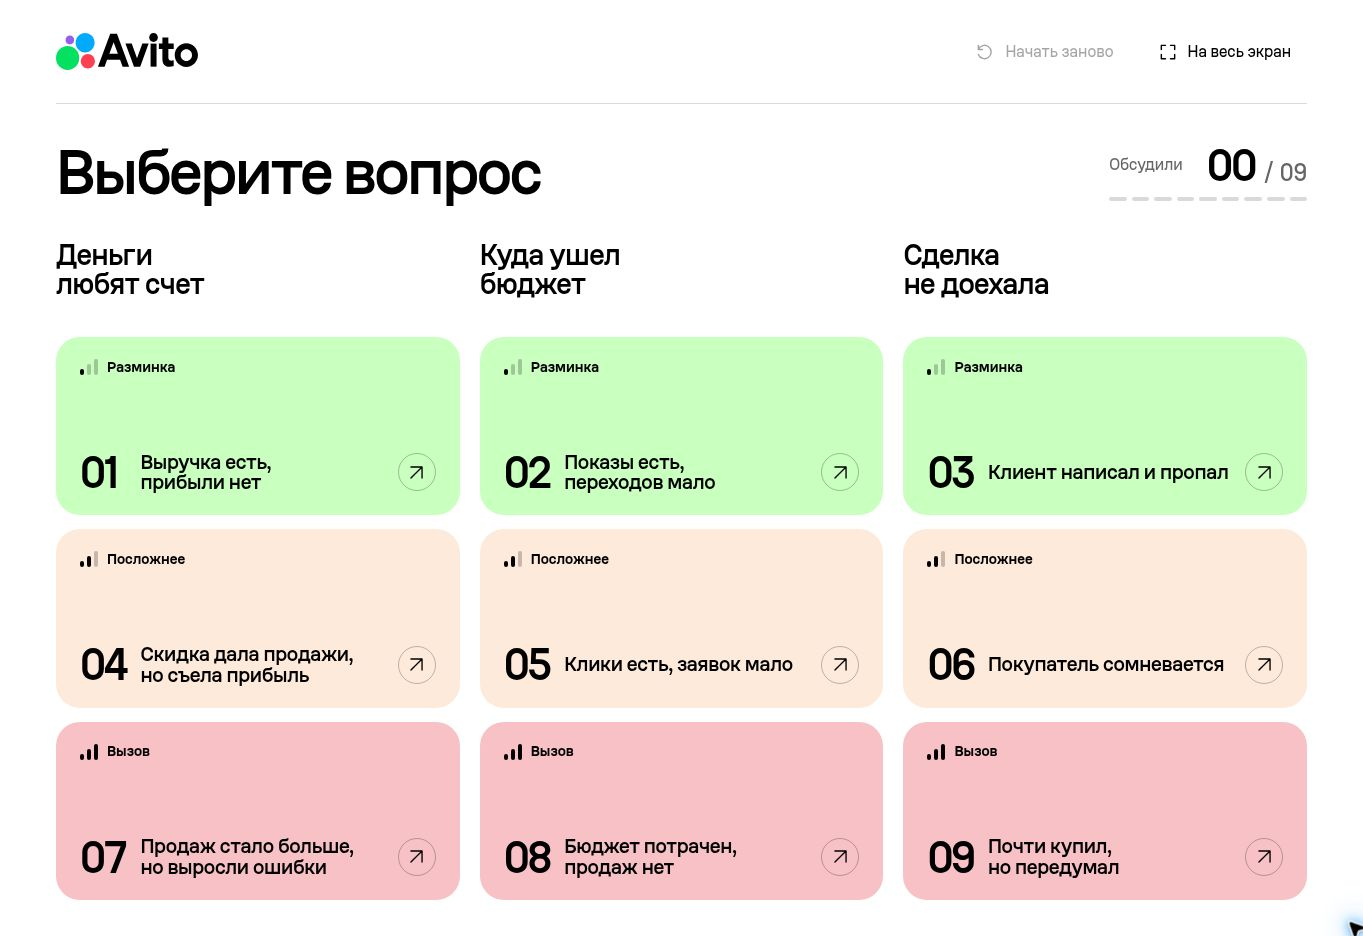
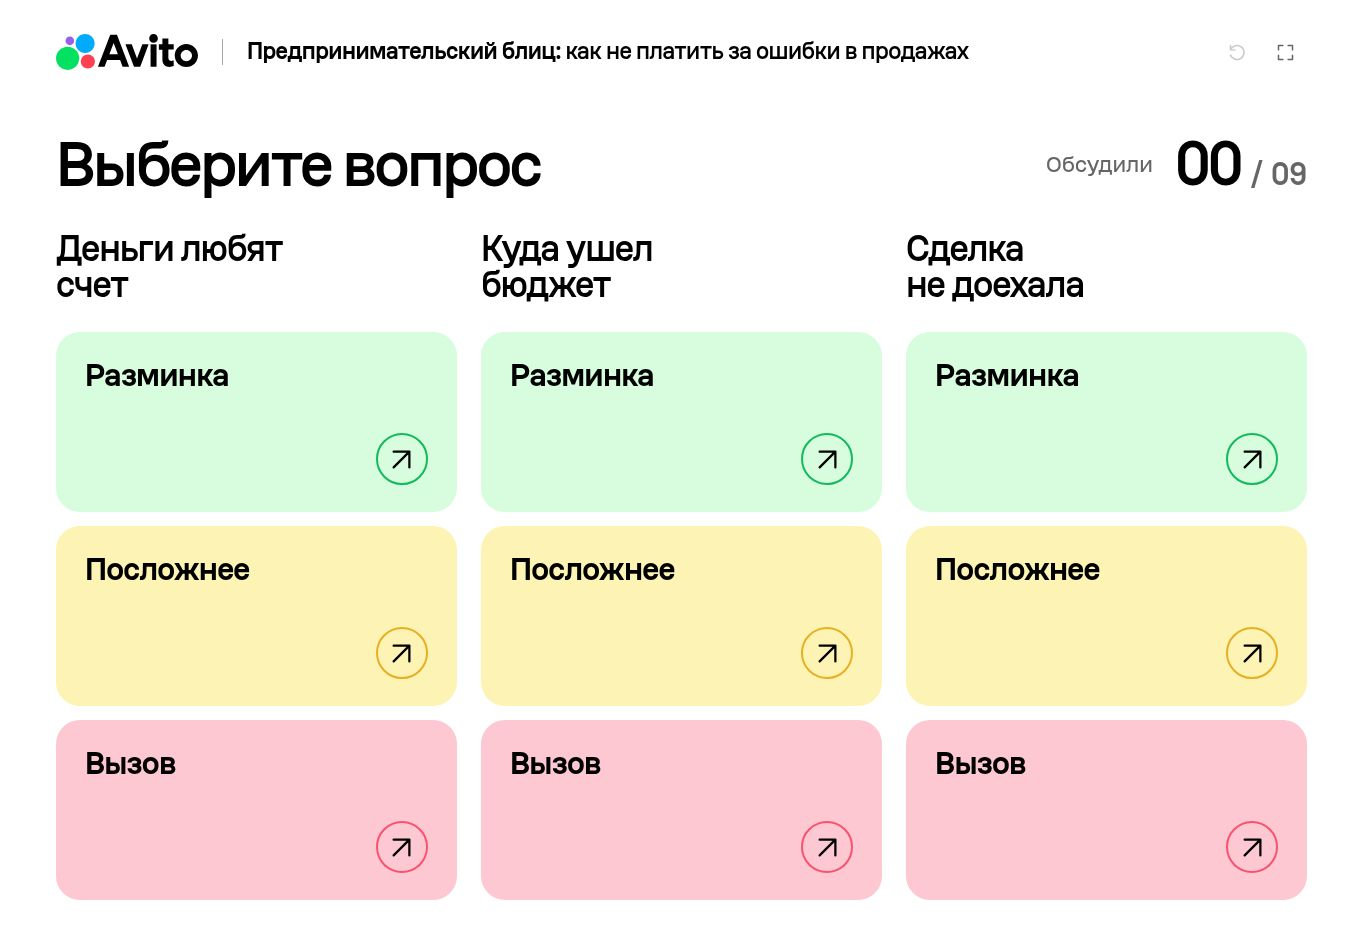
Document verified client revisions and refresh presentation previews

diff --git a/design-qa.md b/design-qa.md
@@ -1,0 +1,37 @@
+# Client feedback QA — 26 September 2026
+
+final result: passed
+
+## Scope and evidence
+
+Source: `/workspace/scratch/c3e3a825f815/upload/telegram-cloud-photo-size-2-5309872724249352803-y.jpg` (1280 × 797 pixels), together with the two attached client comments. The subsequent user instruction explicitly rejects large category numbers. This is a scoped revision of the existing presentation, not a pixel-identical clone of the supplied slide.
+
+Implementation: https://imonsergey.github.io/avitointeractiveslide/
+Screenshots: `docs/preview.jpg`, `docs/question-preview.jpg`, `docs/answered-preview.jpg`.
+CSS viewport and screenshot: 1363 × 936, capture density 1×. Source is a compressed, differently proportioned slide; it has no independently known CSS viewport. No image resampling was used. Original captures were viewed in the same comparison input. The existing responsive viewport was retained, so card heights intentionally expand to fill the screen. No claim of exact pixel matching is made.
+
+State: initial 0/9 board; longest question; answered 1/9 board after reload.
+
+## Findings
+
+No actionable P0/P1/P2 issues in the requested scope.
+
+- Typography: existing CoFo Avito Display files retained. Category headings Medium, level labels Bold, question clause Regular. Labels and questions are readable without truncation.
+- Layout: three aligned columns, consistent card padding and gaps; board fits 1363 × 936 without overflow. No large category numbers. Compact reset/fullscreen icons remain available.
+- Colours: white page, black text, sampled soft green #D8FCDE, yellow #FDF3B5 and pink #FDC8D2 from the client reference. Answered state is light grey #E9E9EB with a grey check, verified after reload.
+- Assets: existing original Avito logo and existing navigation icons retained. No new raster assets were required. Decorative corner arcs were omitted in keeping with the client's request for fewer details.
+- Copy: exact event title added; no question content appears on board cards, including their accessible names. Card content is only difficulty and action arrow. All nine original question texts remain unchanged. Question view contains the question and functional navigation, without difficulty badges, repeated counters, large numbers or category labels.
+
+Full-view comparison was sufficient: title, category labels and card typography were readable at their captured resolution. No small visual assets required focused cropping.
+
+## Interaction verification
+
+Opened the longest question, marked it answered, returned to the board, reloaded and verified persistence, reopened it and removed the answer mark. Progress returned to 0/9. The final browser tab remains on the clean initial board.
+
+Console checked: no application-origin errors observed; browser extension metadata errors were excluded from the app findings. GitHub Pages code deployment completed successfully.
+
+## Comparison history and limits
+
+First comparison after applying the requested changes: passed; no additional visual fixes required. Expected differences from the client's rough mock: no large category numbers (explicit user instruction), no repeated per-card counters or decorative corners (simplification), responsive card height and existing original font files.
+
+Desktop presentation was visually verified. Mobile layout retains a single-column media query; this pass did not include a separate mobile browser capture.

diff --git a/README.md b/README.md
@@ -1,4 +1,4 @@
-# Авито · Вопросы для бизнеса
+# Авито · Предпринимательский блиц
 
 Интерактивная презентация с девятью вопросами: три категории × три уровня сложности.
 
